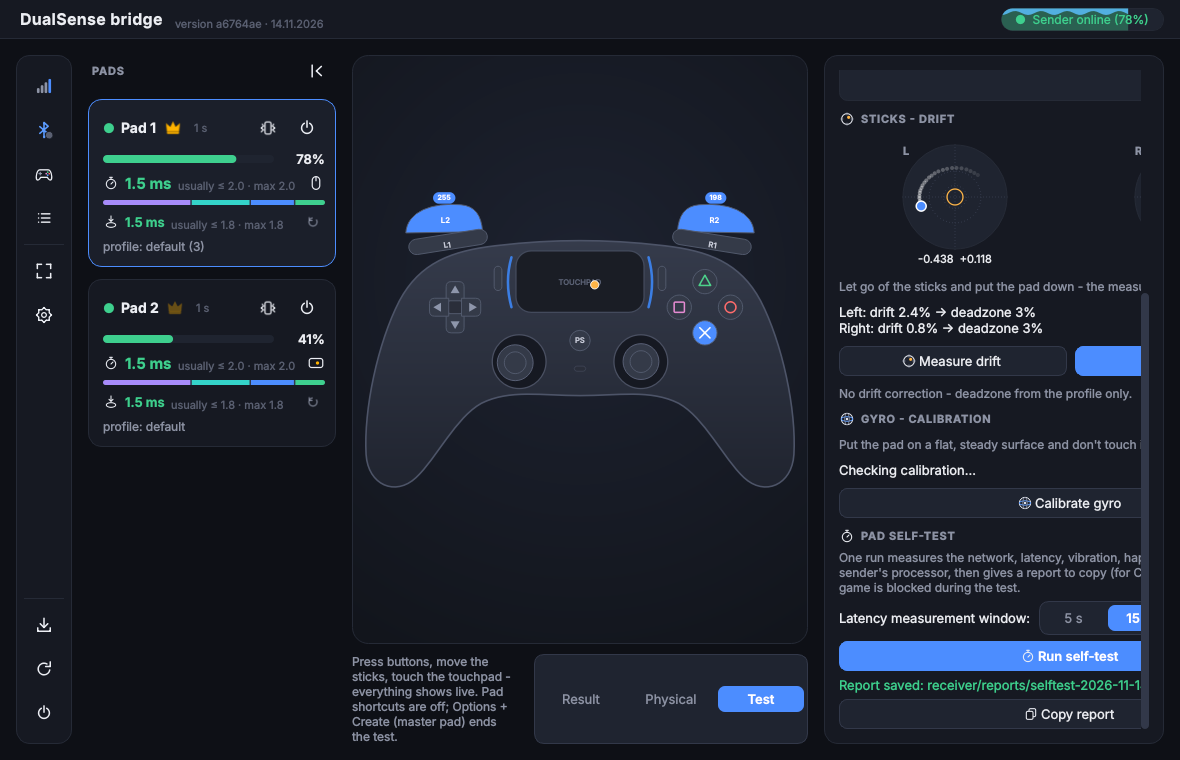
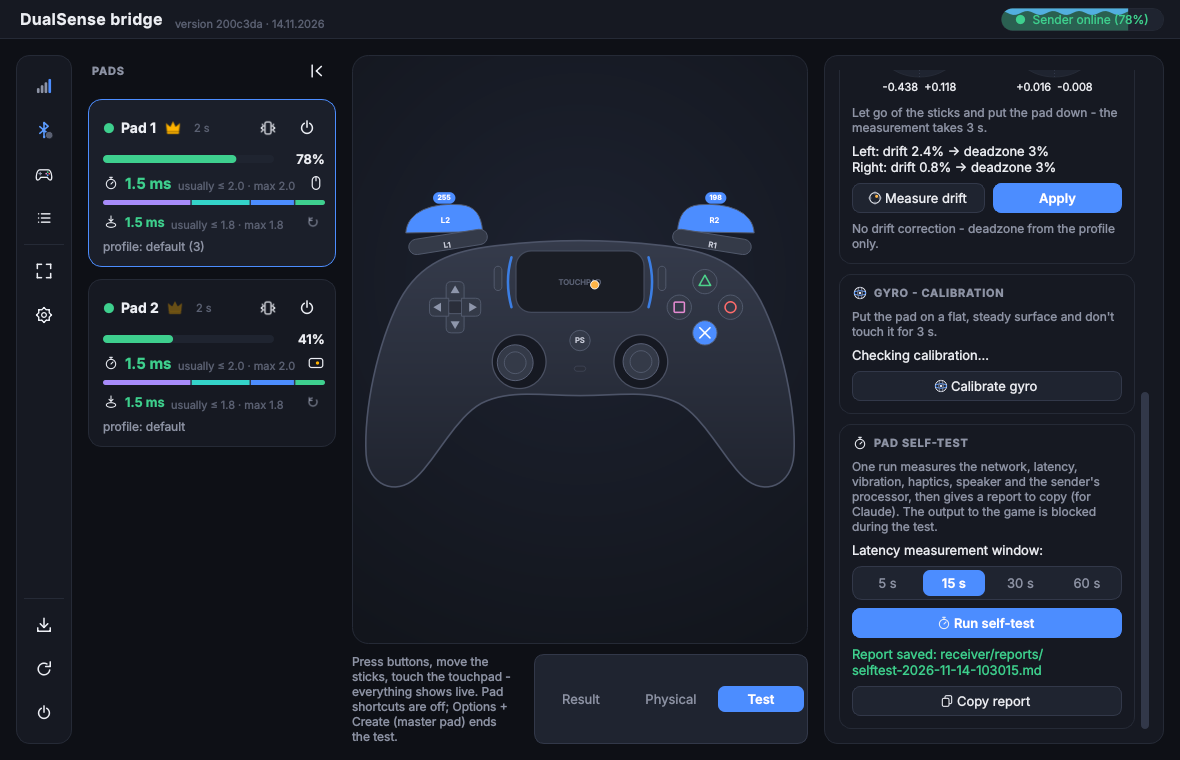
Receiver: fit the Test view panel and group it into sections
The self-test row (label + 5/15/30/60 s switch) was wider than the right panel, so the whole Test column was cut off on the right. The window choice now sits under its label, each block (lock, touchpad, motion, drift, gyro, self-test) is its own card with a heading, and the chart scale is hidden when it would overlap the values.

diff --git a/receiver/rx_qt_test.py b/receiver/rx_qt_test.py
@@ -22,7 +22,7 @@ from typing import Any
 
 from PySide6.QtCore import QPointF, QRectF, QSize, Qt, Signal
 from PySide6.QtGui import QColor, QFont, QFontMetricsF, QPainter, QPaintEvent, QPen, QPolygonF
-from PySide6.QtWidgets import QCheckBox, QHBoxLayout, QSizePolicy, QVBoxLayout, QWidget
+from PySide6.QtWidgets import QCheckBox, QFrame, QHBoxLayout, QSizePolicy, QVBoxLayout, QWidget
 
 import rx_drift as D
 import rx_profiles as P
@@ -35,7 +35,7 @@ from rx_qt_icons import icon
 from rx_qt_panels import _vbox, scrolled
 from rx_qt_selftest import SelfTestBox
 from rx_qt_style import ACCENT, BORDER, DIM, FG, LINE, MUTED, OK, TRACK, WARN, px, set_prop
-from rx_qt_widgets import ConfirmButton, SegmentBar, button, icon_label, label
+from rx_qt_widgets import ConfirmButton, SegmentBar, button, label, section
 
 CHART_S = 5.0
 AXES = (("X", "#ff6b6b"), ("Y", OK), ("Z", "#5b9bff"))
@@ -143,8 +143,10 @@ class MotionChart(QWidget):
             p.drawText(QPointF(x, r.top() + px(14)), text)
             x += fm.horizontalAdvance(text) + px(8)
         scale = f"±{rng:g} {self.unit}"
-        p.setPen(QColor(MUTED))
-        p.drawText(QPointF(r.right() - px(8) - fm.horizontalAdvance(scale), r.top() + px(14)), scale)
+        sx = r.right() - px(8) - fm.horizontalAdvance(scale)
+        if sx >= x:                     # in a narrow panel the scale would overlap the values: it is dropped then
+            p.setPen(QColor(MUTED))
+            p.drawText(QPointF(sx, r.top() + px(14)), scale)
 
 
 class StickScope(QWidget):
@@ -268,15 +270,6 @@ class StickScope(QWidget):
         return QPointF(c.x() + x * k, c.y() + y * k)
 
 
-def _head(icon_name: str, text: str) -> QHBoxLayout:
-    """A section heading row: a small icon and an h2 label."""
-    row = QHBoxLayout()
-    row.setSpacing(px(6))
-    row.addWidget(icon_label(icon_name, px(16)))
-    row.addWidget(label(text, "h2"), 1)
-    return row
-
-
 class TestPanel(QWidget):
     """The right panel in the Test view. block_changed(bool) - the user toggled the lock of output to the game."""
 
@@ -309,9 +302,7 @@ class TestPanel(QWidget):
 
     def _build_lock(self, lay: QVBoxLayout, block_on: bool) -> None:
         """The checkbox that blocks the output to the game while testing."""
-        row = QHBoxLayout()
-        row.setSpacing(px(6))
-        row.addWidget(icon_label("shield", px(18)))
+        card, box = section("shield", _("BLOKADA"))
         self.block = QCheckBox(_("Blokuj wyjście do gry"))
         self.block.setToolTip(_("Na czas testu gra dostaje puszczone przyciski i gałki w środku tego pada; skróty pada, "
                                 "gyro-mysz i tryb konsoli też nie reagują. Touchpad jako mysz dalej steruje oknem "
@@ -319,14 +310,12 @@ class TestPanel(QWidget):
                                 "po przejściu do gry albo wyjściu z testu pad od razu do niej wraca."))
         self.block.setChecked(block_on)
         self.block.toggled.connect(self.block_changed.emit)
-        row.addWidget(self.block, 1)
-        lay.addLayout(row)
+        box.addWidget(self.block)
+        lay.addWidget(card)
 
     def _build_touchpad(self, lay: QVBoxLayout) -> None:
         """The touchpad capture: a hint and the button; the whole block is visible only for a pad whose touchpad is the mouse."""
-        self.tp_box = QWidget()
-        box = _vbox(self.tp_box, 6)
-        box.addLayout(_head("touchpad", _("TOUCHPAD")))
+        self.tp_box, box = section("touchpad", _("TOUCHPAD"), QFrame())
         self.tp_hint = label("", "dim", wrap=True)
         box.addWidget(self.tp_hint)
         self.tp_btn = button(_("Testuj touchpad"))
@@ -337,26 +326,27 @@ class TestPanel(QWidget):
 
     def _build_motion(self, lay: QVBoxLayout) -> None:
         """The gyro and accelerometer charts."""
-        lay.addLayout(_head("pulse", _("RUCH")))
+        card, box = section("pulse", _("RUCH"))
         self.gyro_chart = MotionChart(_("Gyro"), "°/s", 10.0, 1)
         self.acc_chart = MotionChart(_("Akcelerometr"), "g", 1.2, 2)
-        lay.addWidget(self.gyro_chart)
-        lay.addWidget(self.acc_chart)
+        box.addWidget(self.gyro_chart)
+        box.addWidget(self.acc_chart)
+        lay.addWidget(card)
 
     def _build_drift(self, lay: QVBoxLayout) -> None:
         """The stick scope, the drift measurement with its result and the stored correction."""
-        lay.addLayout(_head("target", _("GAŁKI - DRYF")))
+        card, box = section("target", _("GAŁKI - DRYF"))
         self.scope = StickScope()
         self.scope.setToolTip(_("Skala pierwiastkowa: małe odchyłki są powiększone. Kropkowane okręgi: 5% i 25% "
                                 "wychylenia; niebieski: strefa martwa z korekcji dryfu; żółty: szczyt ostatniego pomiaru; zielony: "
                                 "zasięg z trybu dostępności."))
-        lay.addWidget(self.scope)
+        box.addWidget(self.scope)
         self.drift_hint = label(_("Puść gałki i odłóż pad - pomiar trwa {s} s.").format(s=f"{D.MEASURE_S:g}"), "dim", wrap=True)
-        lay.addWidget(self.drift_hint)
+        box.addWidget(self.drift_hint)
         self.drift_bar = SegmentBar(px(5))
-        lay.addWidget(self.drift_bar)
+        box.addWidget(self.drift_bar)
         self.drift_res = label("", wrap=True)
-        lay.addWidget(self.drift_res)
+        box.addWidget(self.drift_res)
         row = QHBoxLayout()
         row.setSpacing(px(8))
         self.measure = button(_("Zmierz dryf"))
@@ -368,7 +358,7 @@ class TestPanel(QWidget):
         self.apply.clicked.connect(self.apply_drift)
         row.addWidget(self.measure, 1)
         row.addWidget(self.apply, 1)
-        lay.addLayout(row)
+        box.addLayout(row)
         row = QHBoxLayout()
         row.setSpacing(px(6))
         self.corr = label("", "dim", wrap=True)
@@ -377,23 +367,25 @@ class TestPanel(QWidget):
         self.clear_btn.confirmed.connect(self.clear_drift)
         row.addWidget(self.corr, 1)
         row.addWidget(self.clear_btn)
-        lay.addLayout(row)
+        box.addLayout(row)
+        lay.addWidget(card)
 
     def _build_gyro(self, lay: QVBoxLayout) -> None:
         """The gyro calibration: a hint, a progress bar, the state text and the button."""
-        lay.addLayout(_head("gyro", _("ŻYROSKOP - KALIBRACJA")))
-        lay.addWidget(label(_("Połóż pad na płaskiej, stabilnej powierzchni i nie dotykaj go przez {s} s.")
+        card, box = section("gyro", _("ŻYROSKOP - KALIBRACJA"))
+        box.addWidget(label(_("Połóż pad na płaskiej, stabilnej powierzchni i nie dotykaj go przez {s} s.")
                             .format(s=CAL_S), "dim", wrap=True))
         self.cal_bar = SegmentBar(px(5))
-        lay.addWidget(self.cal_bar)
+        box.addWidget(self.cal_bar)
         self.cal_text = label("", wrap=True)
-        lay.addWidget(self.cal_text)
+        box.addWidget(self.cal_text)
         self.cal_btn = button(_("Kalibruj żyroskop"))
         self.cal_btn.setIcon(icon("gyro"))
         self.cal_btn.setToolTip(_("Nadajnik liczy offset żyroskopu i zapisuje go na telefonie dla tego pada - "
                                   "po restarcie nie trzeba już kalibrować przy starcie."))
         self.cal_btn.clicked.connect(self.start_cal)
-        lay.addWidget(self.cal_btn)
+        box.addWidget(self.cal_btn)
+        lay.addWidget(card)
 
     # ---------- pad choice / view ----------
     def set_slot(self, slot: int) -> None:

diff --git a/receiver/rx_qt_selftest.py b/receiver/rx_qt_selftest.py
@@ -14,7 +14,7 @@ from __future__ import annotations
 from typing import Final
 
 from PySide6.QtCore import QSize, Signal
-from PySide6.QtWidgets import QApplication, QHBoxLayout, QWidget
+from PySide6.QtWidgets import QApplication, QFrame
 
 import rx_selftest as T
 import rx_selftest_report as R
@@ -22,9 +22,8 @@ import rx_state as S
 import rx_testmode as testmode
 from rx_i18n import _
 from rx_qt_icons import icon
-from rx_qt_panels import _vbox
 from rx_qt_style import ACCENT, LINE, px, set_prop
-from rx_qt_widgets import Segmented, SegmentBar, button, icon_label, label
+from rx_qt_widgets import Segmented, SegmentBar, button, label, section
 
 JOIN_S: Final = 2.0             # how long stopping the run waits for its thread (it reacts within a tick and then cleans up)
 
@@ -43,7 +42,7 @@ REFUSAL_TEXT: Final = {
 }
 
 
-class SelfTestBox(QWidget):
+class SelfTestBox(QFrame):
     """The "pad self-test" block of the Test view. busy_changed(bool): a run started / ended (the window re-applies the output lock)."""
 
     busy_changed = Signal(bool)
@@ -56,23 +55,14 @@ class SelfTestBox(QWidget):
         self.run: T.SelfTest | None = None
         self.text = ""                  # the last report (for "Copy report")
         self.path = ""                  # where it was saved
-        box = _vbox(self, 6)
-        head = QHBoxLayout()
-        head.setSpacing(px(6))
-        head.addWidget(icon_label("stopwatch", px(16)))
-        head.addWidget(label(_("SELF-TEST PADA"), "h2"), 1)
-        box.addLayout(head)
+        box = section("stopwatch", _("SELF-TEST PADA"), self)[1]
         box.addWidget(label(_("Jeden przebieg mierzy sieć, opóźnienie, wibracje, haptykę i głośnik oraz procesor nadajnika, "
                               "a potem daje raport do skopiowania (dla Claude'a). Wyjście do gry jest zablokowane na czas testu."),
                             "dim", wrap=True))
-        row = QHBoxLayout()
-        row.setSpacing(px(8))
-        row.addWidget(label(_("Okno pomiaru opóźnienia:")))
+        box.addWidget(label(_("Okno pomiaru opóźnienia:"), wrap=True))      # above the switch: side by side they do not fit
         self.window_seg = Segmented(self.WINDOWS)
         self.window_seg.set("15")
-        row.addWidget(self.window_seg)
-        row.addStretch(1)
-        box.addLayout(row)
+        box.addWidget(self.window_seg)
         self.start_btn = button(_("Uruchom self-test"), primary=True)
         self.start_btn.setIcon(icon("stopwatch"))
         self.start_btn.clicked.connect(self.toggle)

diff --git a/receiver/rx_qt_widgets.py b/receiver/rx_qt_widgets.py
@@ -120,6 +120,25 @@ def group(title: str, *items: QWidget | QLayout) -> QFrame:
     return box
 
 
+def section(icon_name: str, title: str, frame: QFrame | None = None) -> tuple[QFrame, QVBoxLayout]:
+    """A card of a narrow side panel: an icon + heading row, then the content added to the returned layout.
+
+    `frame` lets the caller keep its own widget as the card (e.g. a block that is shown or hidden as a whole). The margins are
+    small so a section still fits the right panel without a horizontal scroll.
+    """
+    box = frame if frame is not None else QFrame()
+    box.setObjectName("group")
+    lay = QVBoxLayout(box)
+    lay.setContentsMargins(12, 10, 12, 12)
+    lay.setSpacing(8)
+    head = QHBoxLayout()
+    head.setSpacing(6)
+    head.addWidget(icon_label(icon_name, px(16)))
+    head.addWidget(label(title, "h2"), 1)
+    lay.addLayout(head)
+    return box, lay
+
+
 def pair(a: QWidget, b: QWidget) -> QHBoxLayout:
     """Two fields side by side, equal width."""
     row = QHBoxLayout()

diff --git a/receiver/rx_i18n.py b/receiver/rx_i18n.py
@@ -853,6 +853,7 @@ EN: Final[dict[str, str]] = {
     "dotyku albo ten przycisk (myszą).":
         "The cursor stands - touch the touchpad, the fingers and the click show on the pad drawing. To finish: the PS "
         "button on the pad, {s} s without a touch, or this button (with a mouse).",
+    "BLOKADA": "OUTPUT LOCK",
     "RUCH": "MOTION",
     "Ruch pada": "Pad motion",
     "Akcelerometr": "Accelerometer",
